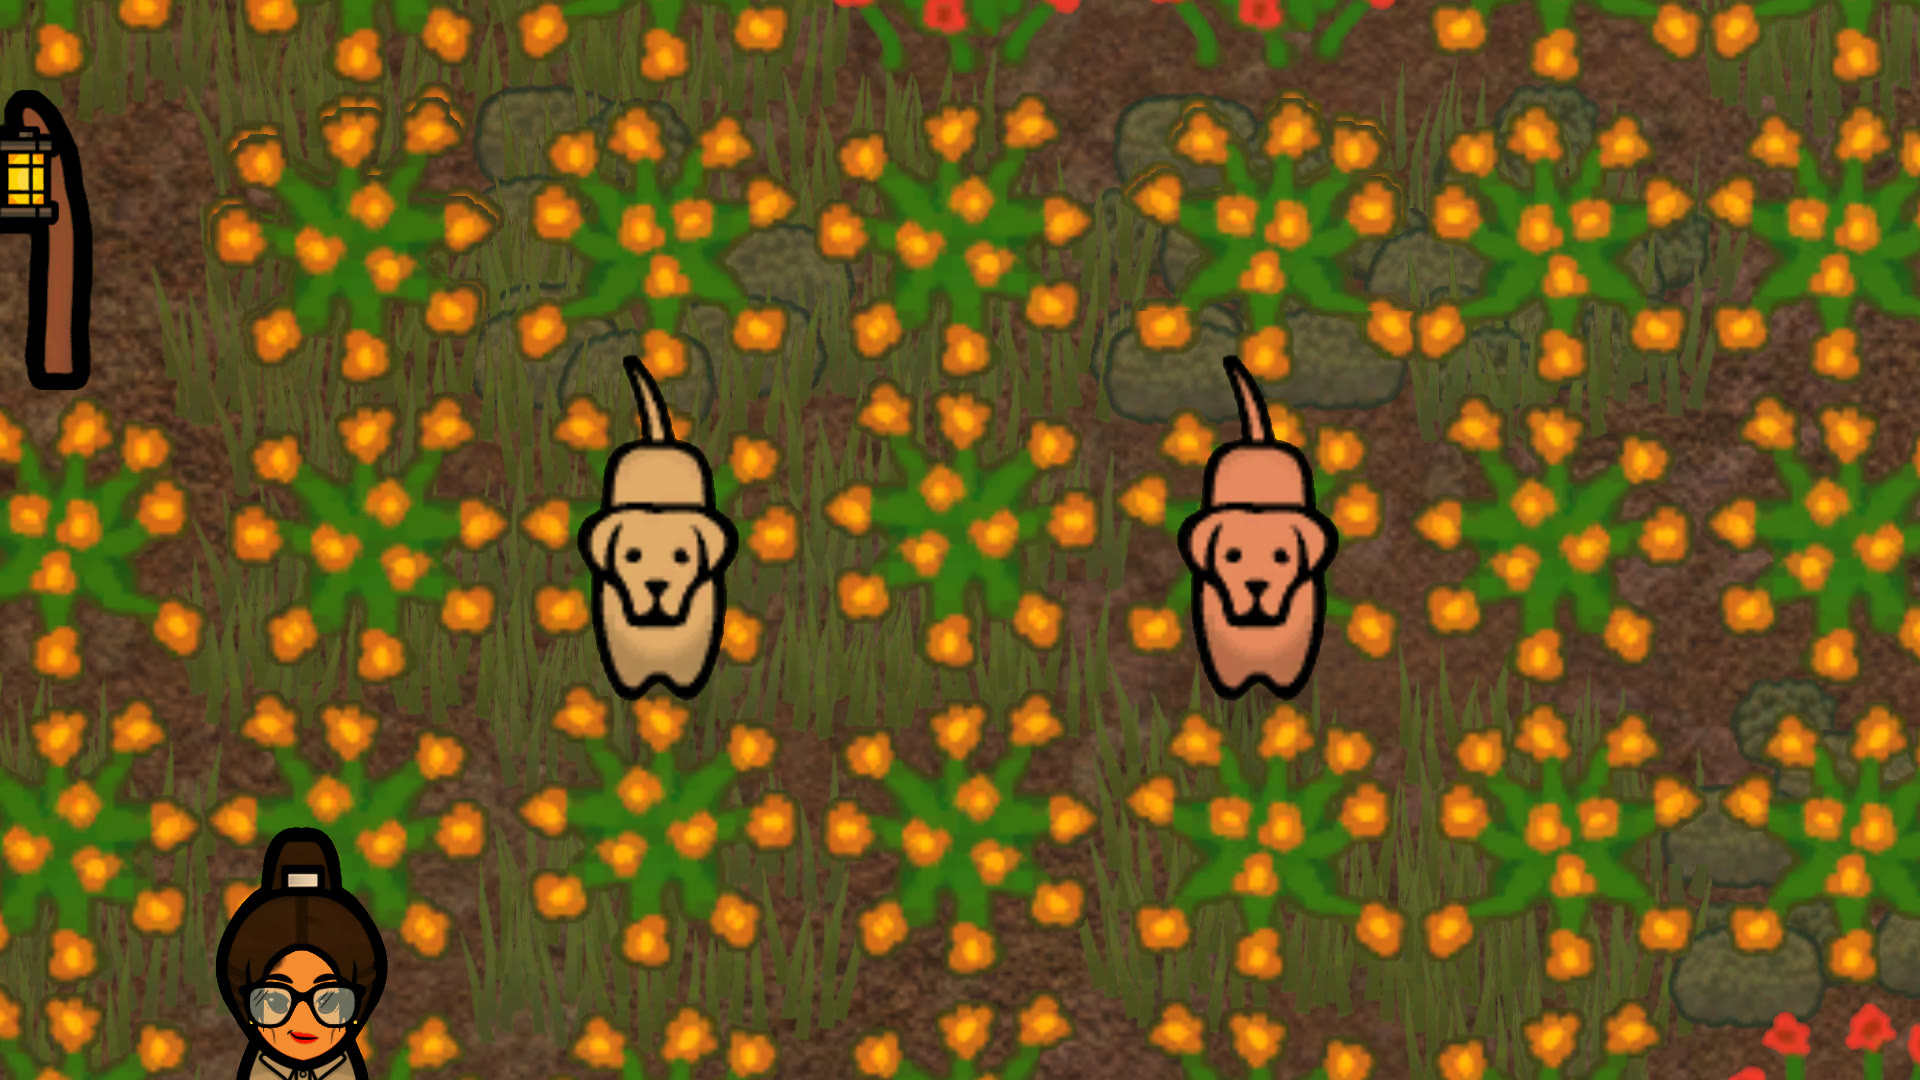
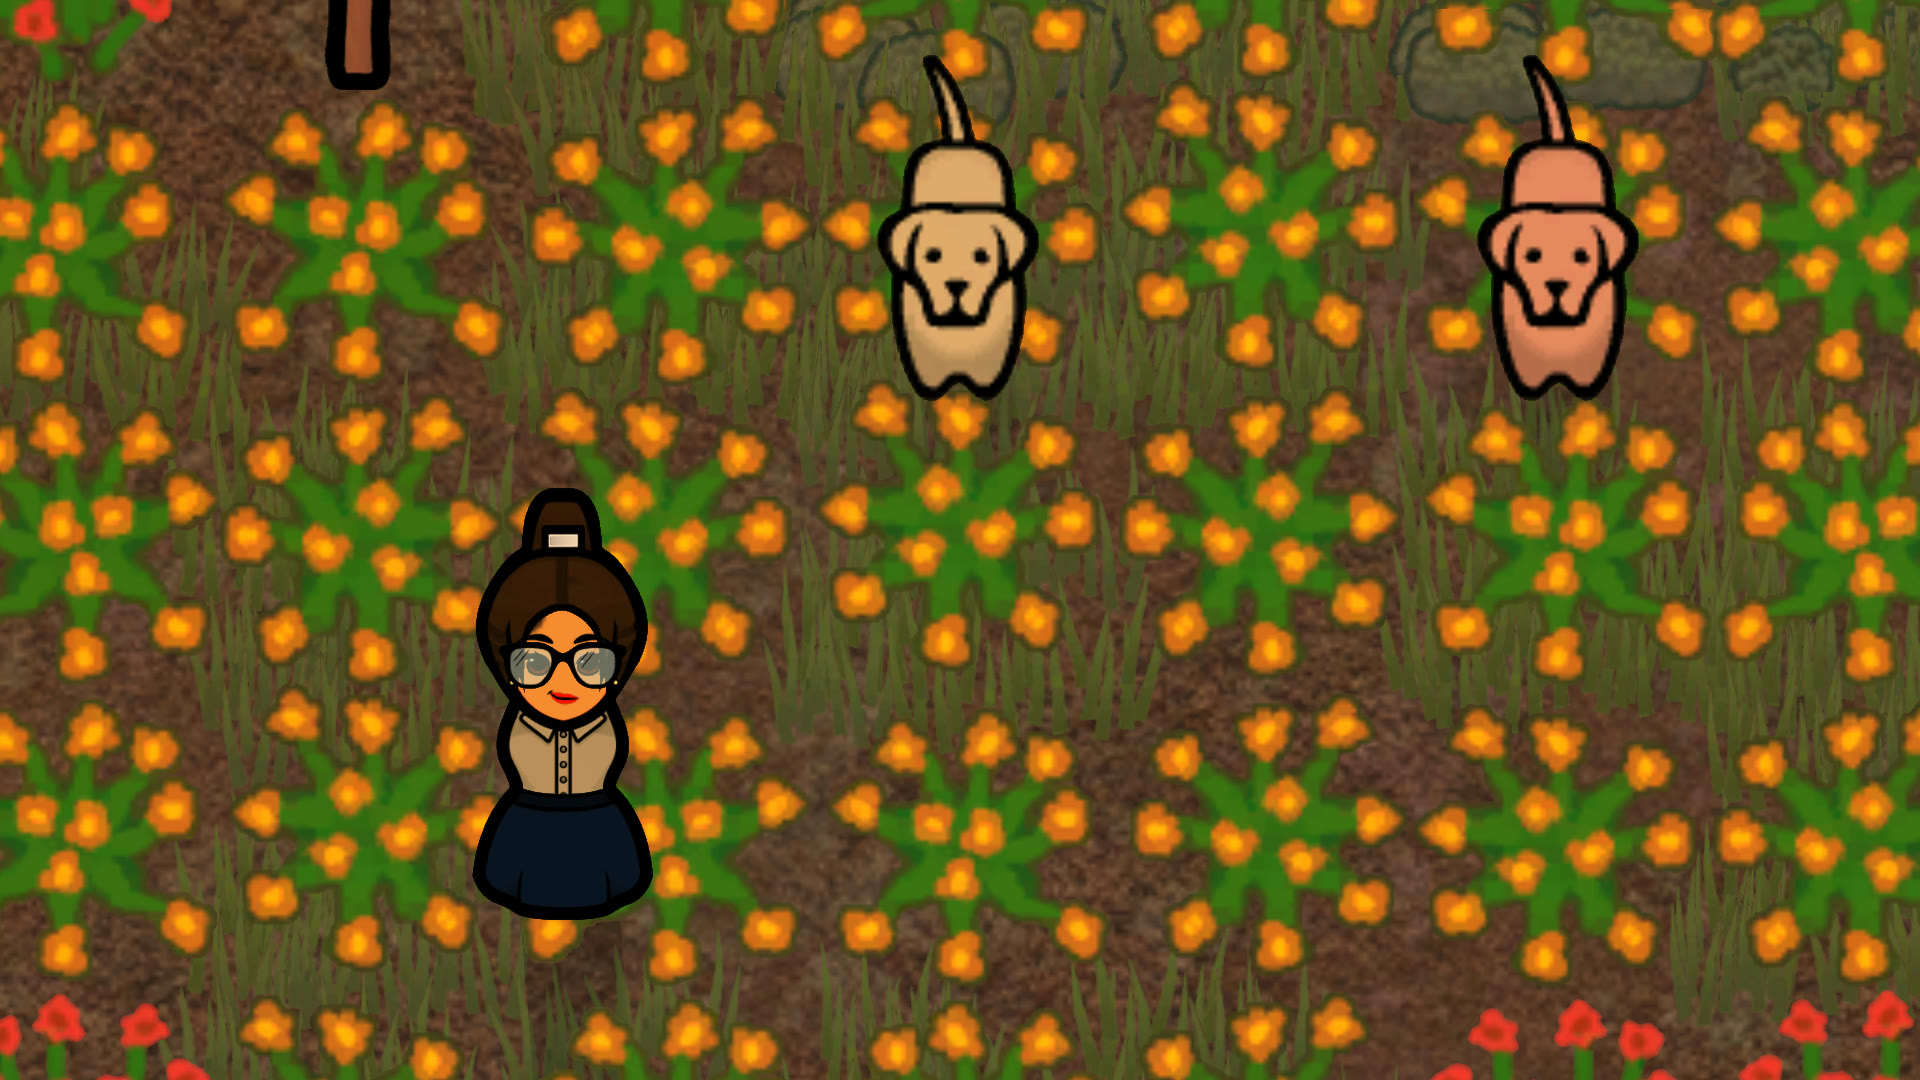
gallery shot 3: smooth face, Nelim whole, subtitled

diff --git a/STATUS.md b/STATUS.md
@@ -20,7 +20,7 @@ published: yes
 tested_on: "2026-11-07 French at 7965f0d (tickets d580 and 8554, acg-serum-bench-chain-fr and acg-serum-second-tint-refused-fr, proofs deleted 2026-11-13, superseded by Evidence/nonreg-110-fr) and 2026-11-07 at 66f5590 (Pickle ticket 0691 green 8 of 8, English, acg-marking: acg-chest-patch-kuroneko, acg-coat-thrumbo, acg-coat-labrador, acg-coat-panther, acg-gene-tint-thrumbo, acg-serum-second-tint-refused, acg-serum-bench-recipe, acg-serum-bench-look; captures read: chest patch on Kuru1, thrumbo tinted; no ACG error in Player.log; Source/Mod unchanged since 2a3846c; proof deleted 2026-11-13, superseded by Tests/Pickle/Evidence/nonreg-110-en) and 2026-11-06 at 2a3846c (automated: unit tests AtsRules pass, build SAME 0 warnings, Check-Translations PASS, Check-Steps clean, Test-Mod.ps1 6 of 6). Pickle last green 2026-11-02 at 4616d5f (tickets 6184, 7f31, 6146, 6c3b, ba7f, 0f31, 989d, 8805, 6352, 0b9d) and 2026-11-06 gene-ui English and French (9615, c68d); Source changed since in 1c5278d (refusal reasons Keyed), replay due at playTests"
   - "2026-11-12 (14.a non-regression of the published 1.1.0 DONE, green, 1.6, read summary.json each): ticket c6b2 English 9 of 9 (acg-load-clean, chest-patch-kuroneko, coat-thrumbo, coat-labrador, coat-panther, gene-tint-thrumbo, serum-apply, serum-bench-recipe, serum-bench-look) and ticket d5d0 French 2 of 2 (acg-serum-second-tint-refused-fr, acg-serum-bench-chain-fr), both exit passed, no ACG error in Player.log. Evidence moved from Inbox to Tests/Pickle/Evidence/nonreg-110-en and nonreg-110-fr (Prune-Evidence -Apply); 14.c DONE 2026-11-13 and the WSL cleanup (PiI, see remaining) (TESTING.md rewritten to the current revision, 1.0.0 release note moved to Docs/runs/2026-11-13-release-notes.md, no Art/archive, no BACKLOG file, only main branch; Prune-Evidence dry run, 8 superseded folders older than the last code commit deleted, none named by STATUS any more, RELEASE.md added to nonreg-110-en and nonreg-110-fr, Evidence 2.0 MB, 0 folder over target). Left in followUp[1.1.0]: 14.e dormant, subscribe-test 13.b on 1.6 and 1.7, Workshop tags check, collection RimWorld through Nelim eyes (AUDIT.md 13.c, 13.f: not recorded for 1.0.0, ask Virginie)."
 remaining:
-  - "2026-11-13 (Virginie: shots 1, 2, 3, 5, 6 OK; shot 7 three vials accepted to add). Shot 7 DONE: run f0b9+3f13 green, capture read, vials blue/orange/purple readable, own face ok (brows, smirk, no blush); clean Art/Gallery-clean/7-three-vials.jpg, subtitled Art/Gallery/7-three-vials.jpg 'Three genes, three colours.' (candidate, decoration about 4: top and right floor bare, to judge by Virginie). Shot 4 DONE 2026-11-13 (ticket 1c86 green 1 of 1, capture read: own face ok, brows, smile, no blush, NO bandage, horse dark brown, blue vial readable; clean Art/Gallery-clean/4-horse.jpg, subtitled Art/Gallery/4-horse.jpg, whole gallery sent to Virginie for single review, evidence deleted from Inbox). Earlier refusal: a bandage on Nelim cheek (a wound, cause not checked: lead = animals Mare1/Alpa1 hurt her during the 60 normal-speed ticks, unproven), horse dark brown; refiled once more as ticket 1c86 (WAITING, evidence Tests/Pickle/Inbox/gallery-4-again). At RUN_DONE read summary.json and the face crop; if the bandage comes back, find the cause in Player.log before another run."
+  - "2026-11-14 (shot 3 redone after Virginie saw lines on the face: cause = Facial Animation skin detail, fixed by step face skin is SkinNormal after own face (NPT advice), reframed centre (154, 109) so Nelim is whole; ticket 3048 green, face smooth on crop, candidate re-sent; shots 1, 2, 5, 6, 7 accepted by her silence, 4 kept). Older: 2026-11-13 (Virginie: shots 1, 2, 3, 5, 6 OK; shot 7 three vials accepted to add). Shot 7 DONE: run f0b9+3f13 green, capture read, vials blue/orange/purple readable, own face ok (brows, smirk, no blush); clean Art/Gallery-clean/7-three-vials.jpg, subtitled Art/Gallery/7-three-vials.jpg 'Three genes, three colours.' (candidate, decoration about 4: top and right floor bare, to judge by Virginie). Shot 4 DONE 2026-11-13 (ticket 1c86 green 1 of 1, capture read: own face ok, brows, smile, no blush, NO bandage, horse dark brown, blue vial readable; clean Art/Gallery-clean/4-horse.jpg, subtitled Art/Gallery/4-horse.jpg, whole gallery sent to Virginie for single review, evidence deleted from Inbox). Earlier refusal: a bandage on Nelim cheek (a wound, cause not checked: lead = animals Mare1/Alpa1 hurt her during the 60 normal-speed ticks, unproven), horse dark brown; refiled once more as ticket 1c86 (WAITING, evidence Tests/Pickle/Inbox/gallery-4-again). At RUN_DONE read summary.json and the face crop; if the bandage comes back, find the cause in Player.log before another run."
   - "2026-11-13 (shot 4 REFUSED by Virginie, 3rd capture: Nelim has the wrong smile, no eyebrows, blushes; cause: scenario lacked the step 'Nelim's Sanctuary: Nelim has her own face' (brows, smirk smile, blink) that shots 1, 2, 3, 5 have; added before the frame step, capture deleted). Refiled ticket (label gallery shot 4 own face). At RUN_DONE: check brows, smile, no blush, readable vial at 268 px, then clean copy, subtitle, send the whole gallery again for her single review. Shots 1, 2, 3, 5, 6 are the 1.1.0 published images, not refused."
   - "2026-11-13 (playTests 1.2.0 DONE, shootGallery[1.2.0]): 8.m code review of fa88ffef..0ca90751 read (Source/AnimalTraitSerum.cs DrawColor, own cached Graphic, null-safe TraitFor; Serum.xml shaderType; textures): no defect, code_review_sha moved. 8.l tested_on: 2026-11-13 ticket e7e1 green 1 of 1 acg-serum-tint-look at 604e0cb, Evidence/serum-tint-look. TRANSLATION_REVIEW.md regenerated (Serum.xml comment only, no text change). Gallery shots 1 (bench) and 4 (horse) may show the old turquoise vial: check the six images, redo those shots if the vial is visible (scenario edit, ticket), else keep; then 9.d to 9.f, Preview badge unchanged (1.7 already declared). Non-regression 14.a EN and FR after the final commit."
   - "2026-11-13 (13.b subscribe-test DONE, PiI, owner account, Steam success:1): item 3837162966 downloaded, About.xml modVersion 1.1.0, packageId nelim.animalcosmeticgenes, supportedVersions 1.6 1.7, dependencies luved.animaltraits and Ludeon.RimWorld.Biotech, PublishedFileId.txt 3837162966, 31 files identical to Mod/, AnimalCosmeticGenes.dll sha256 a7f262b92b98 same as local. Owed after every upload (Virginie, 2026-11-13, AUDIT 13.b), PiI does it. 14.a, 14.c, 14.e done: dormant."
